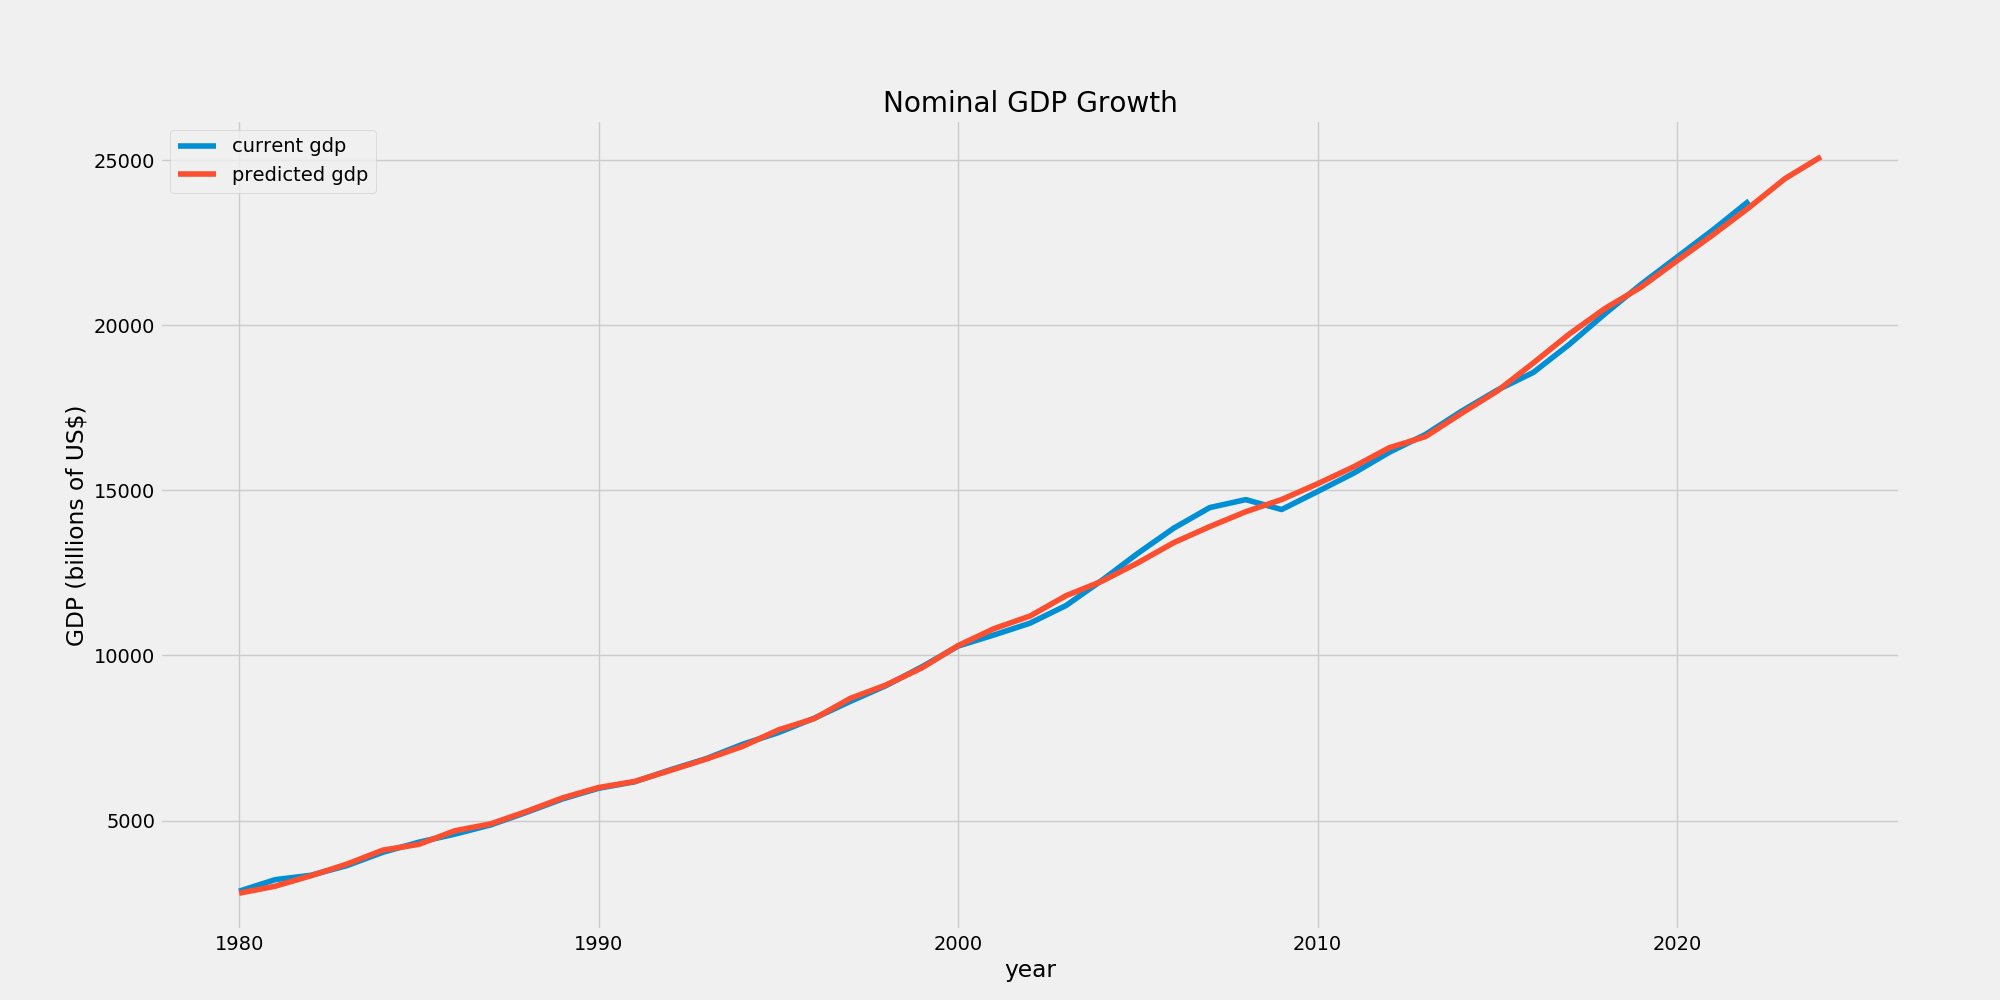
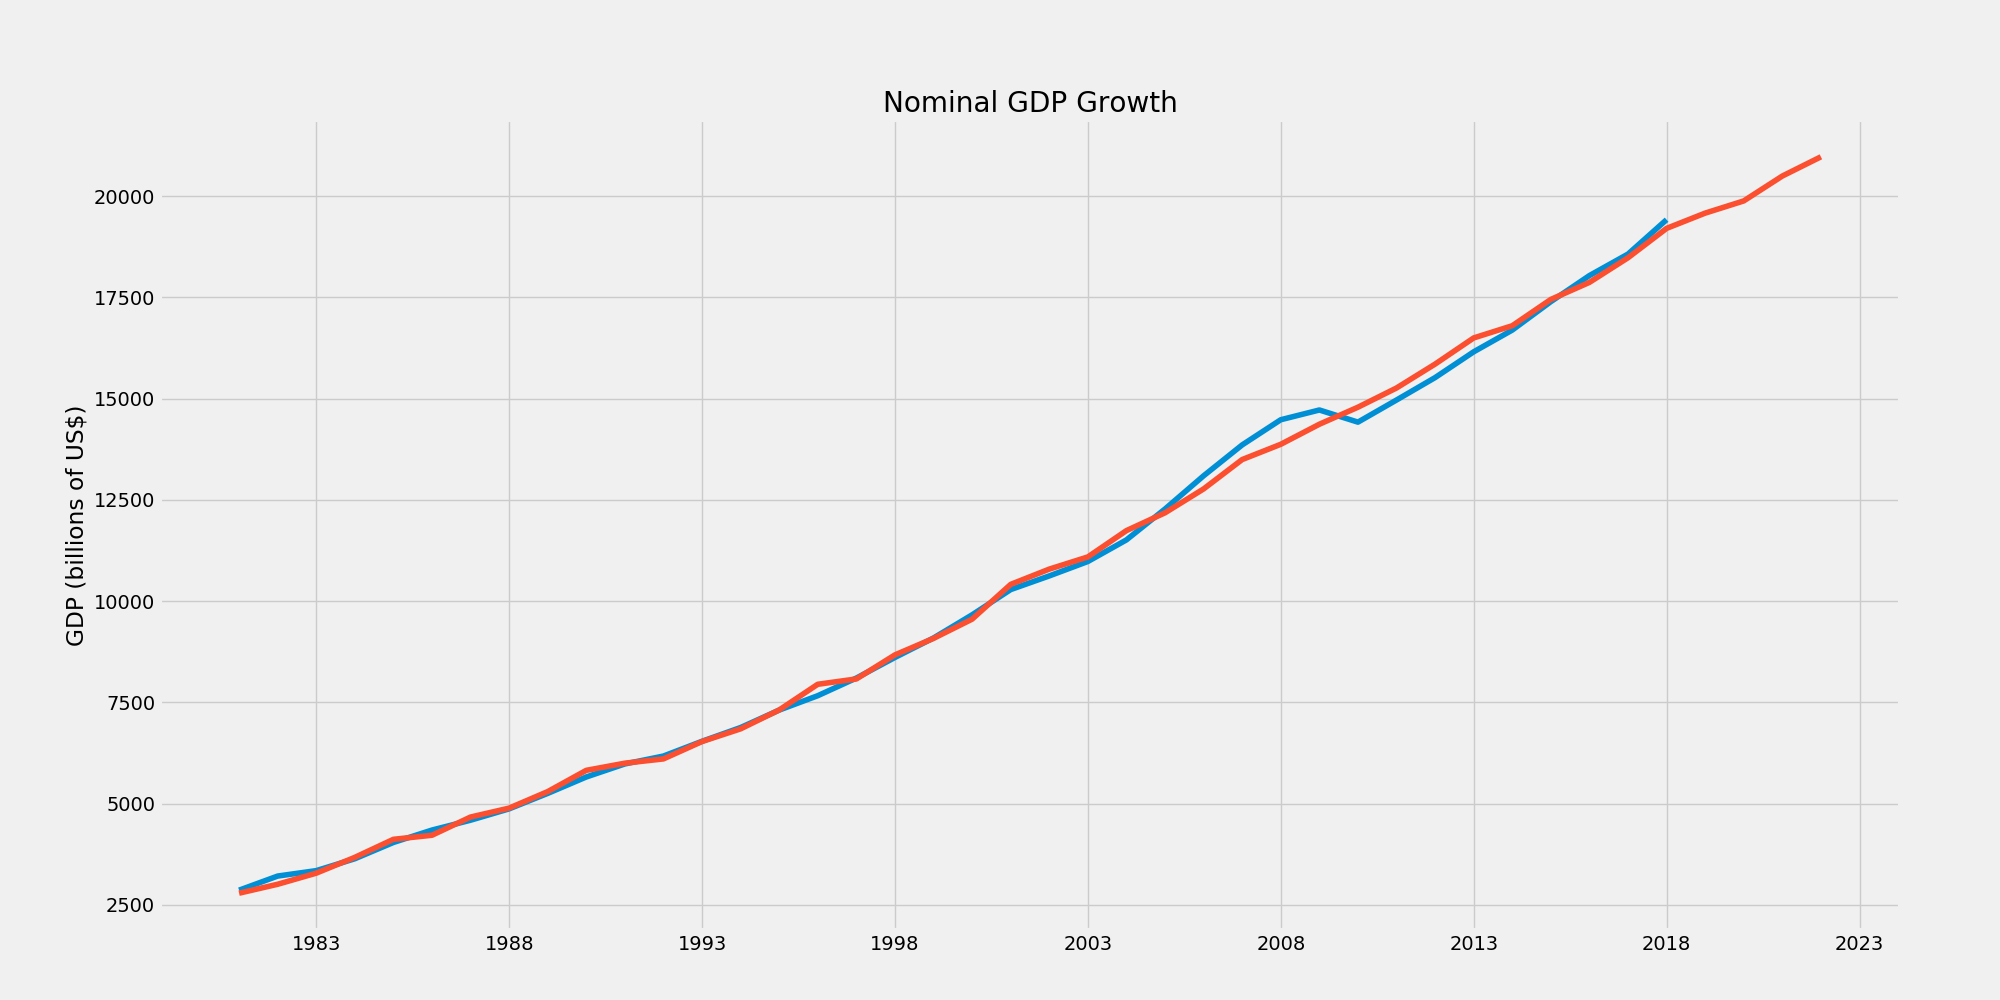
updating

diff --git a/predict.py b/predict.py
@@ -85,6 +85,19 @@ def predict():
     future = model.make_future_dataframe(periods=4, freq = 'a')
     forecast = model.predict(future)
     
+    df.set_index('ds', inplace=True)
+    forecast.set_index('ds', inplace=True)
+
+    df_plot = df.join(forecast[['yhat']], how = 'outer')
+    df_plot = df_plot.reset_index()
+    df_plot.columns = ['year', 'current gdp', 'predicted gdp']
+    df_plot.set_index('year', inplace=True)
+
+    plt.plot(df_plot)
+    fig = plt.gcf()
+    plt.title('Nominal GDP Growth')
+    plt.ylabel('GDP (billions of US$)')
+    fig.savefig('static/plot_%s.png' % country, dpi=100)
     
     predictions = list(forecast[['yhat']].values.flatten())[-4:]
     return render_template_string(TEMPLATE, **{
